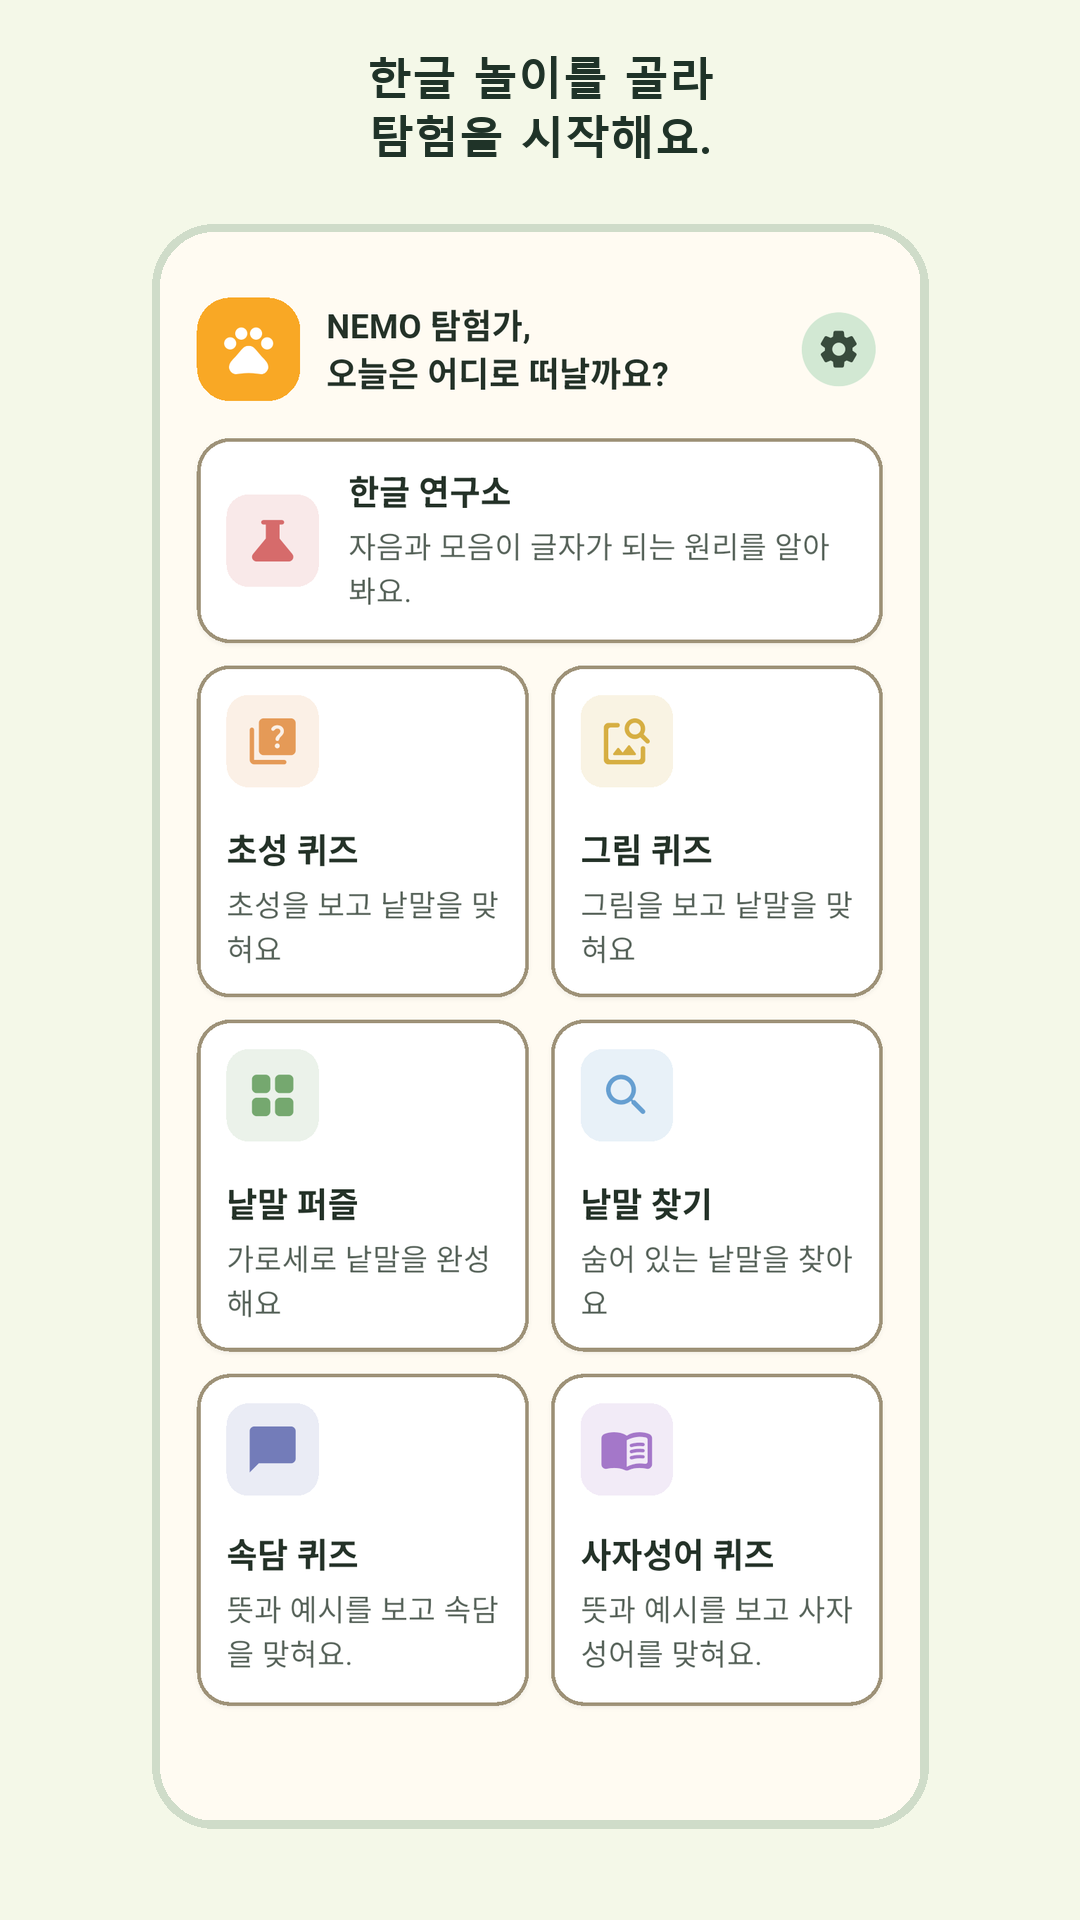
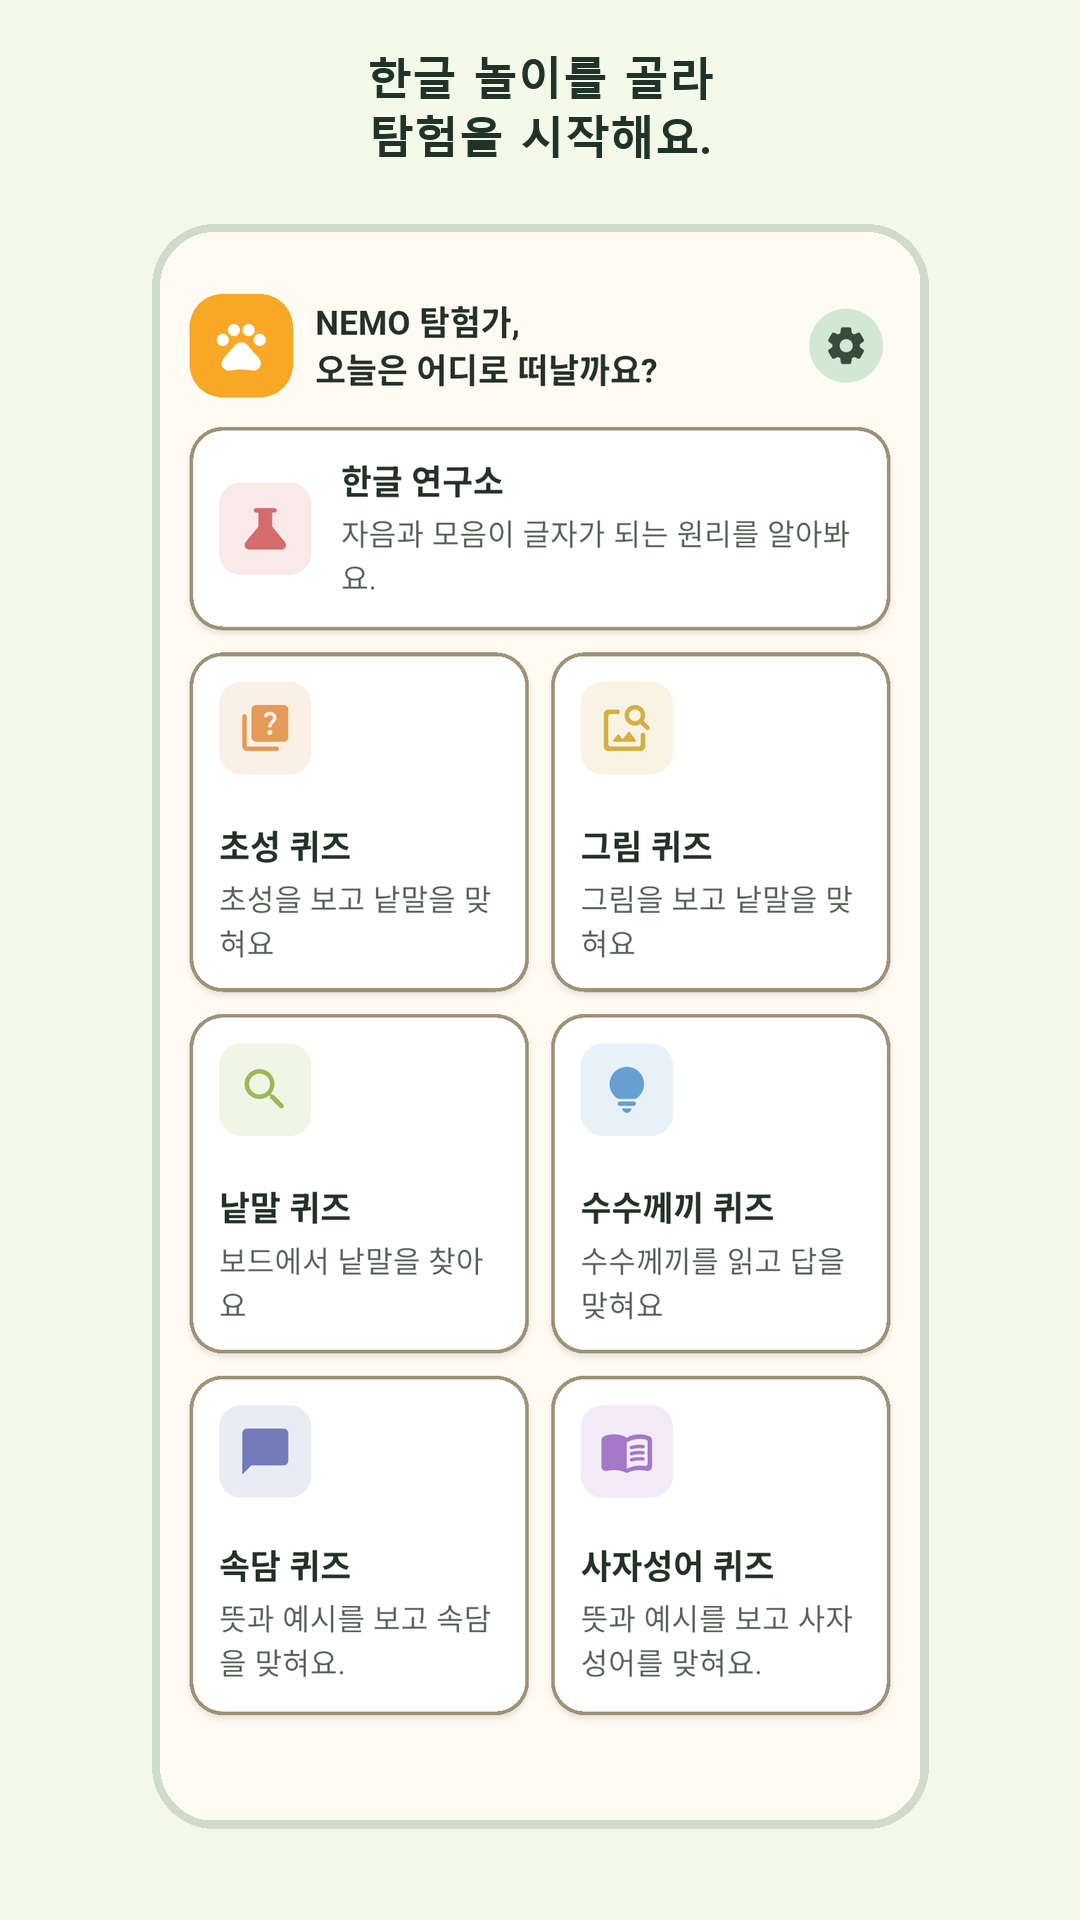
Update Hangeul World assets and page

Changed region(s): [[0.1528, 0.1562, 0.825, 0.9062], [0.1528, 0.25, 0.1833, 0.3125]]

diff --git a/hangeul-world/index.html b/hangeul-world/index.html
@@ -67,12 +67,12 @@
           <figcaption><strong>그림 퀴즈</strong><span>그림을 자세히 살펴보고 알맞은 낱말을 맞혀요.</span></figcaption>
         </figure>
         <figure class="screenshot-card">
-          <img src="google_play/screenshots/05_word_puzzle.png" width="1080" height="1920" alt="낱말 퍼즐 화면" loading="lazy">
-          <figcaption><strong>낱말 퍼즐</strong><span>가로와 세로 낱말의 뜻을 보고 글자를 채워요.</span></figcaption>
+          <img src="google_play/screenshots/05_word_quiz.png" width="1080" height="1920" alt="낱말 퀴즈 화면" loading="lazy">
+          <figcaption><strong>낱말 퀴즈</strong><span>이웃한 글자를 순서대로 이어 숨어 있는 낱말을 찾아요.</span></figcaption>
         </figure>
         <figure class="screenshot-card">
-          <img src="google_play/screenshots/06_word_find.png" width="1080" height="1920" alt="낱말 찾기 화면" loading="lazy">
-          <figcaption><strong>낱말 찾기</strong><span>4×4 글자판에 숨어 있는 낱말을 찾아요.</span></figcaption>
+          <img src="google_play/screenshots/06_riddle_quiz.png" width="1080" height="1920" alt="수수께끼 퀴즈 화면" loading="lazy">
+          <figcaption><strong>수수께끼 퀴즈</strong><span>재미있는 수수께끼를 읽고 알맞은 답을 골라요.</span></figcaption>
         </figure>
         <figure class="screenshot-card">
           <img src="google_play/screenshots/07_proverb_quiz.png" width="1080" height="1920" alt="속담 퀴즈 화면" loading="lazy">

diff --git a/hangeul-world/store_listing_ko.md b/hangeul-world/store_listing_ko.md
@@ -1,0 +1,44 @@
+# Google Play 스토어 소개 문안 (한국어)
+
+기준 버전: `1.0.0+10` (비공개 테스트 제출 준비)  
+최종 갱신일: 2026-09-15
+
+## 짧은 설명
+
+그림과 낱말 놀이로 한글을 즐겁게 익히는 어린이 학습 게임
+
+## 자세한 설명
+
+한글과 함께 한글 월드를 탐험해 보세요!
+
+「네모 탐험대: 한글 월드」는 자음과 모음, 글자와 낱말을 직접 만나고 다양한 퀴즈를 풀며 한글을 익히는 어린이 학습 게임입니다.
+
+정답을 빠르게 고르는 것보다 글자의 소리를 살펴보고, 낱말의 뜻을 생각하며, 여러 번 시도해 보는 즐거운 배움의 경험을 소중하게 생각합니다.
+
+■ 한글 연구소
+ - 자음과 모음, 글자 만들기, 낱말 만들기를 차례로 탐험해 보세요. 한글 재료를 나누고 글자를 이어 보며 한글이 만들어지는 원리를 자연스럽게 익힐 수 있습니다.
+
+■ 초성 퀴즈
+ - 초성과 낱말 뜻을 살펴보고 알맞은 낱말을 골라 보세요. 익숙한 생활 낱말을 통해 소리와 글자의 관계를 알아갈 수 있습니다.
+
+■ 그림 퀴즈
+ - 그림을 보고 알맞은 낱말을 찾아 보세요. 친숙한 사물과 동물, 음식 등의 그림을 보며 낱말을 익힐 수 있습니다.
+
+■ 낱말 퀴즈
+ - 보드에서 이웃한 글자를 순서대로 이어 숨어 있는 낱말을 찾아 보세요. 여러 낱말을 찾아보며 글자와 낱말을 자세히 관찰할 수 있습니다.
+
+■ 수수께끼 퀴즈
+ - 재미있는 수수께끼를 읽고 알맞은 답을 골라 보세요. 말의 여러 뜻과 표현을 생각하며 우리말의 재미를 느낄 수 있습니다.
+
+■ 속담 퀴즈와 사자성어 퀴즈
+ - 뜻과 예시를 읽고 알맞은 속담과 사자성어를 골라 보세요. 우리말의 재미있는 표현과 지혜를 자연스럽게 만나 볼 수 있습니다.
+
+■ 아이를 위한 편리한 구성
+ - 큰 버튼과 쉬운 터치 조작
+ - 단계별 가이드와 친근한 마스코트
+ - 휴대전화와 태블릿 세로 화면 지원
+ - 로그인과 회원가입 없이 이용
+ - 주요 게임은 인터넷 연결 없이도 이용 가능
+ - 설정과 데이터 관리를 위한 보호자 공간
+
+한글의 소리와 모양을 관찰하고, 글자와 낱말을 직접 만들어 보며, 자신만의 속도로 즐거운 한글 탐험을 떠나 보세요.
